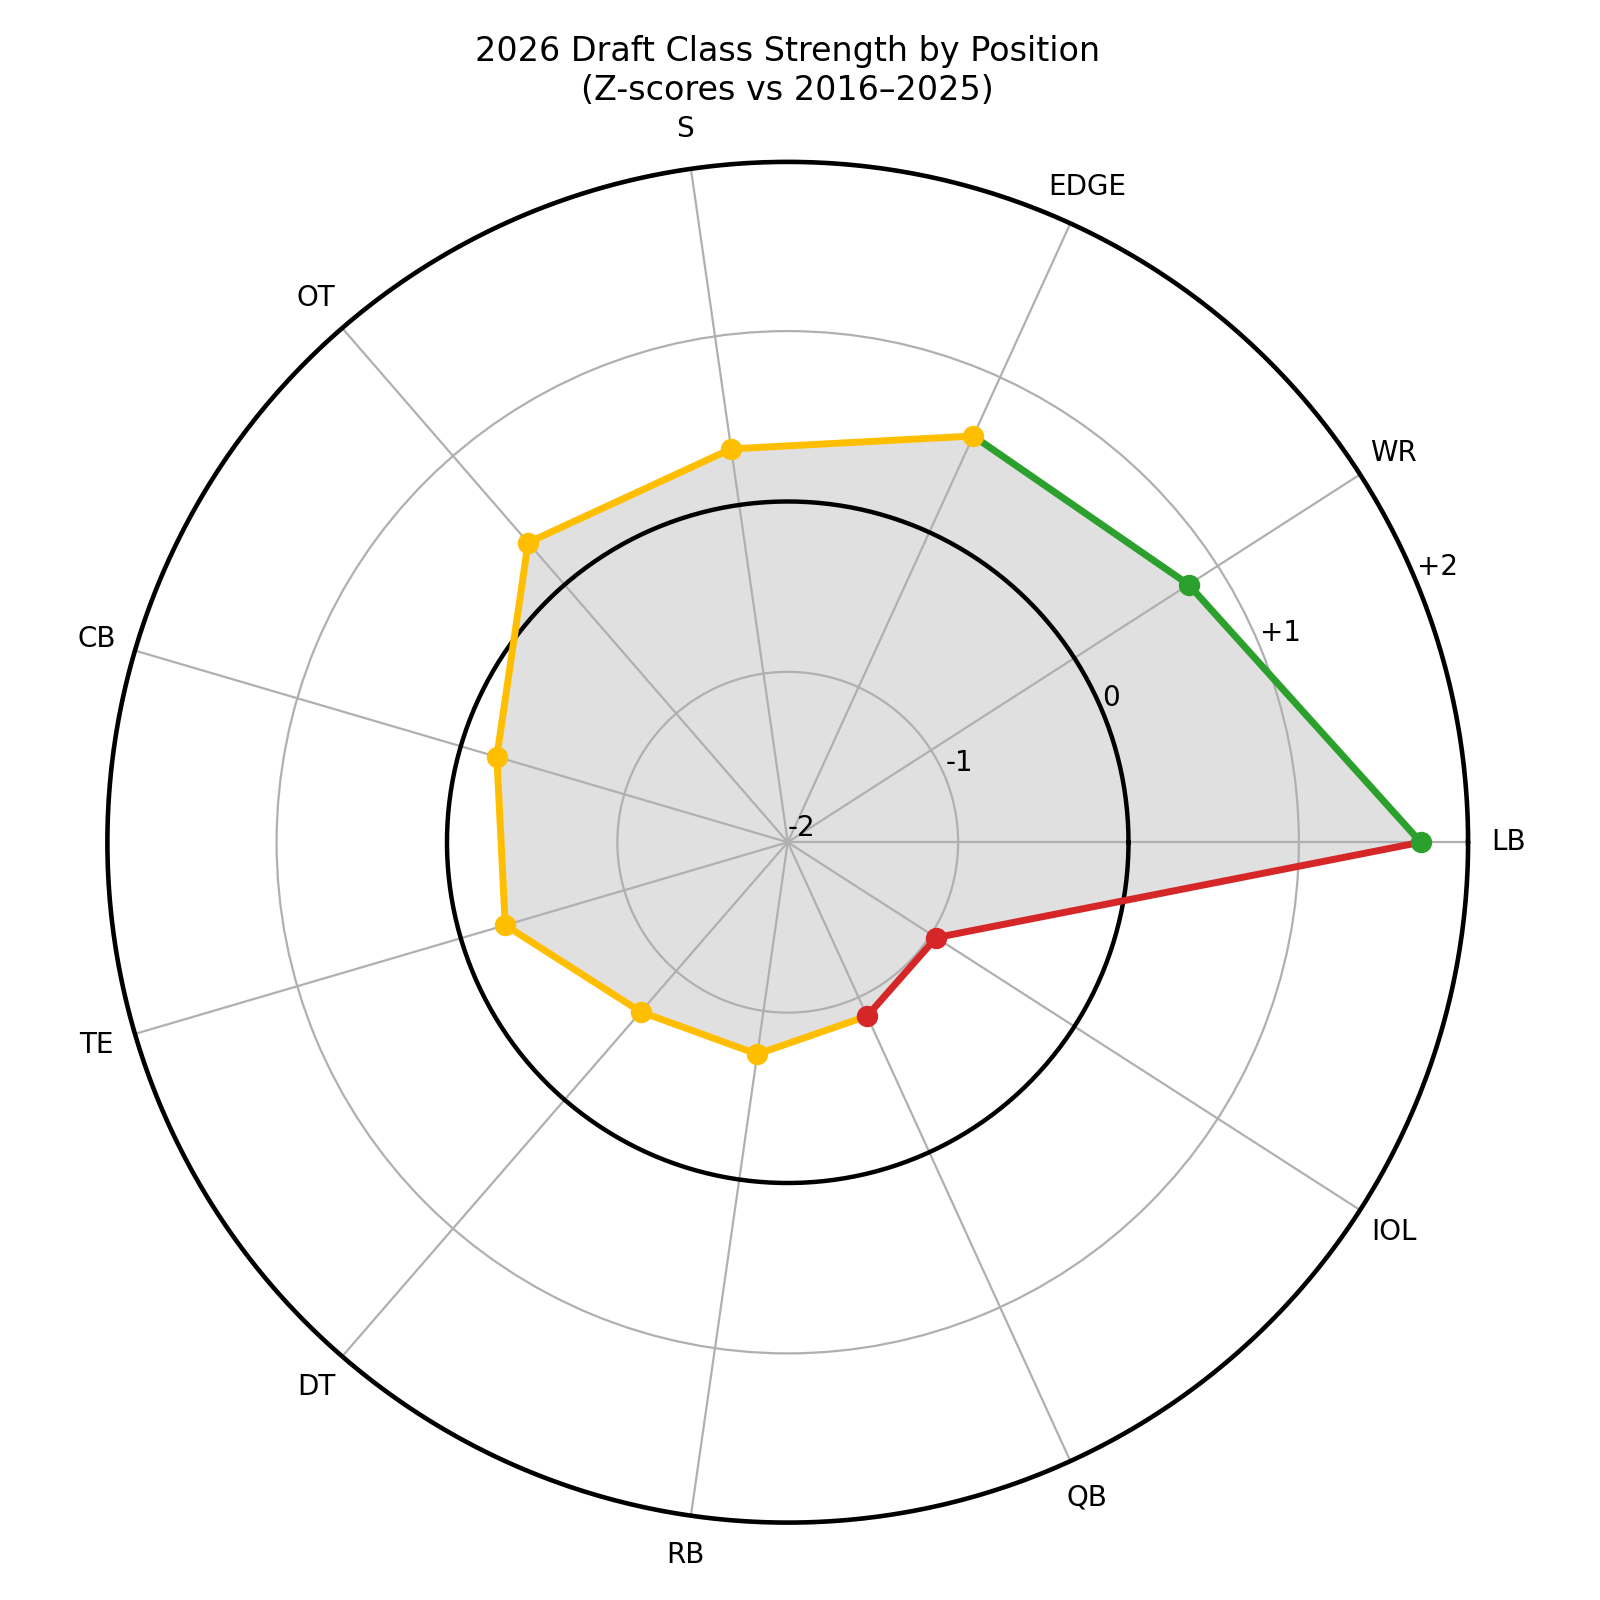
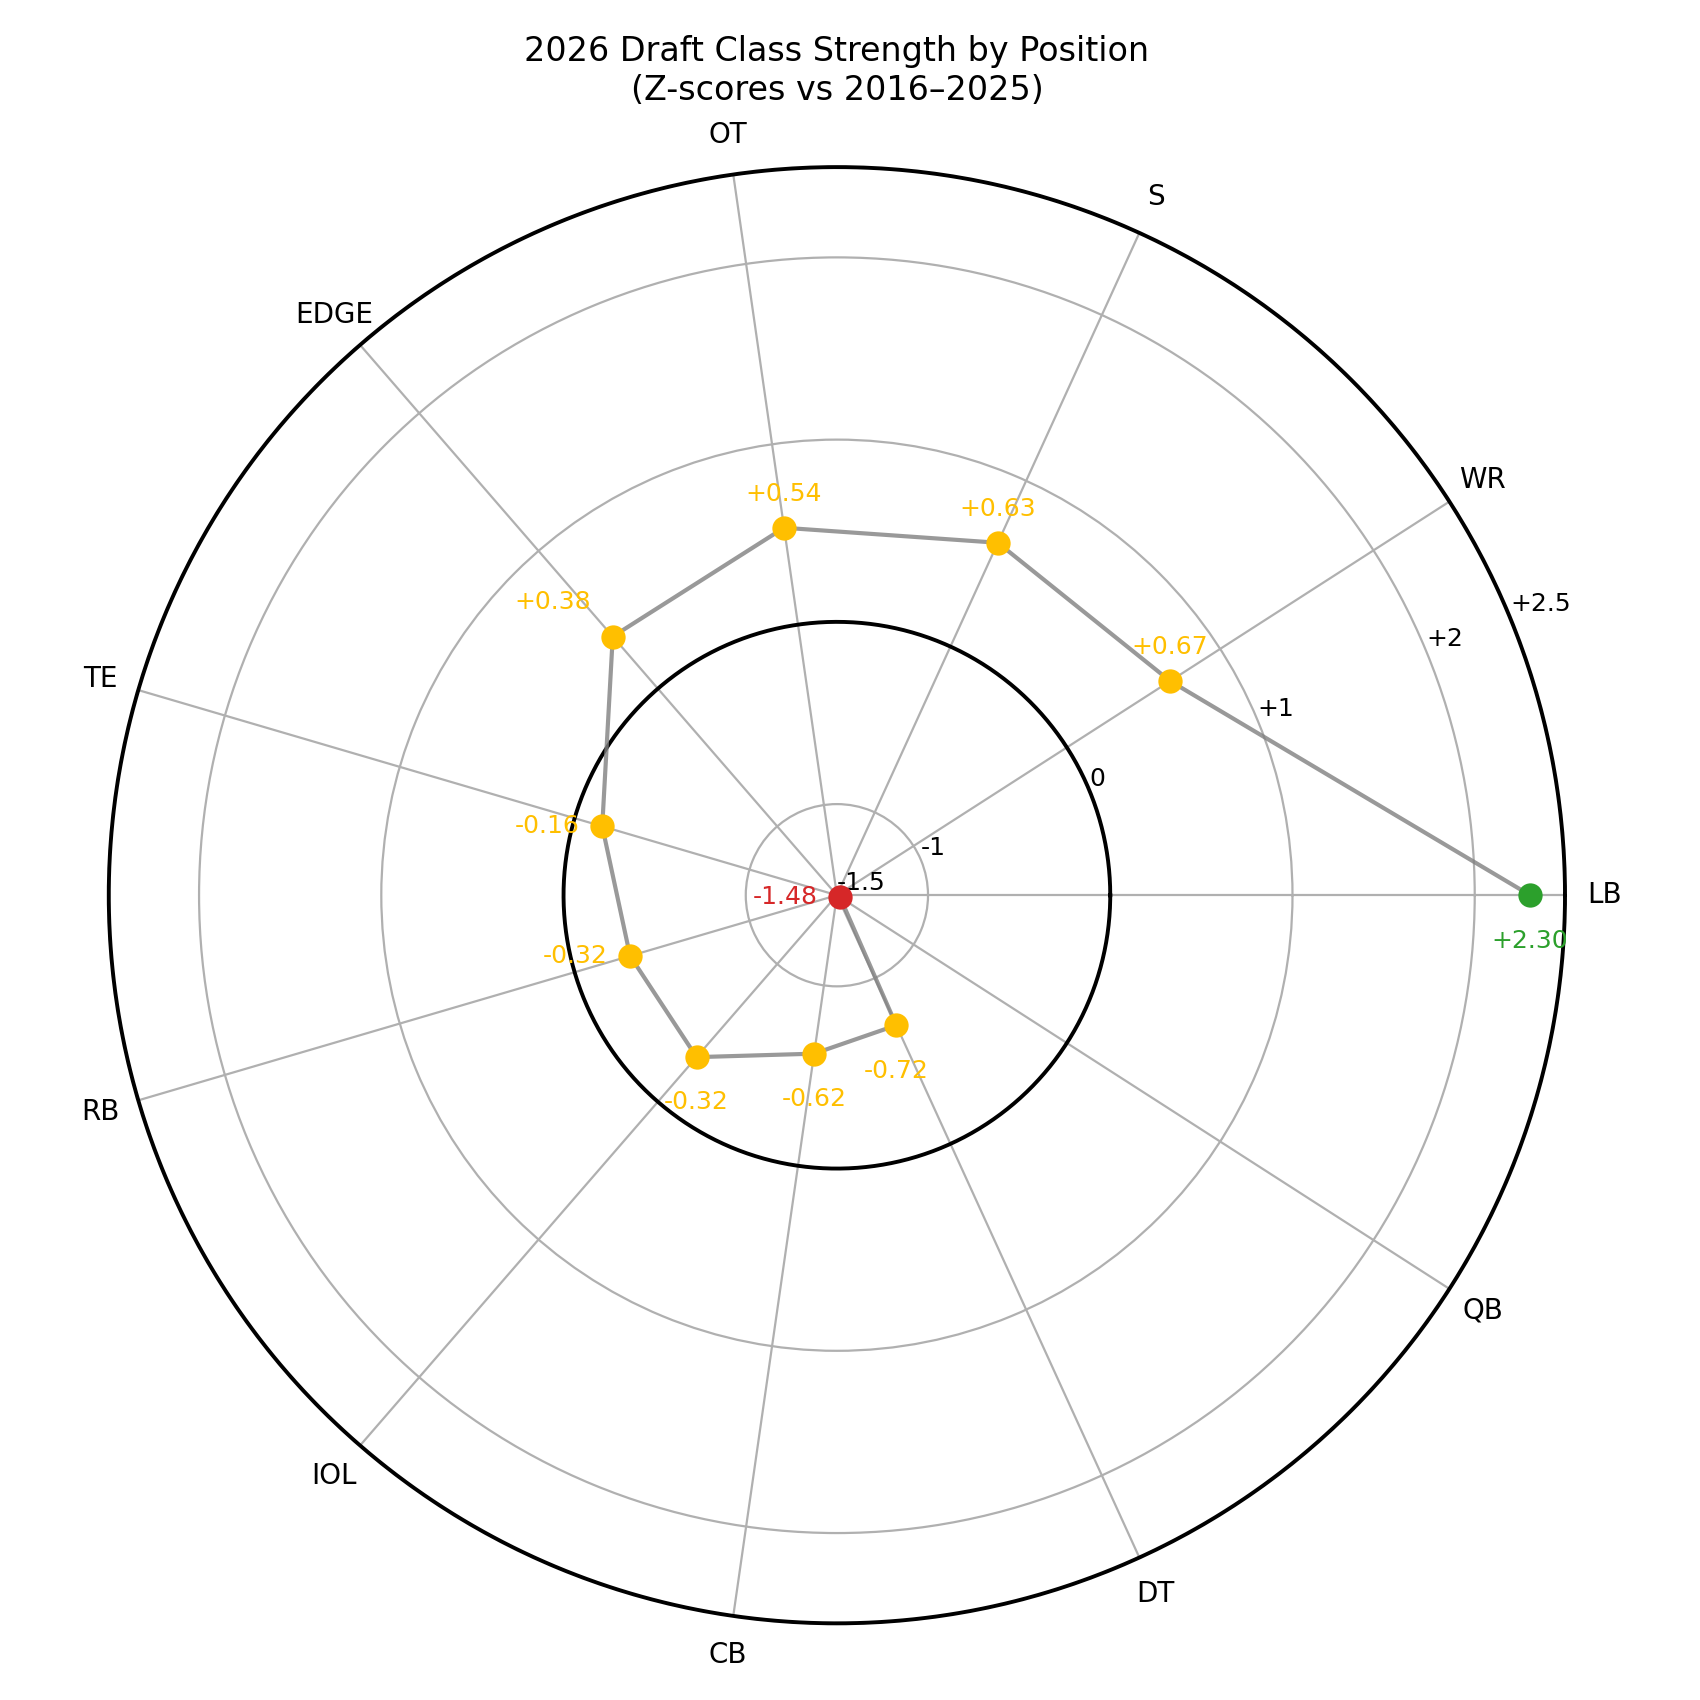
Refine radar chart styling and dynamic z-score thresholds

diff --git a/src/plot_2026_radar_zscores.py b/src/plot_2026_radar_zscores.py
@@ -6,76 +6,136 @@ import matplotlib.pyplot as plt
 ZSCORES_FILE = Path("data/processed/2026_vs_history_position_zscores.csv")
 OUTDIR = Path("reports")
 
-CLIP_MIN, CLIP_MAX = -2.0, 2.0
+CLIP_MIN, CLIP_MAX = -1.5, 2.5
 
-# Color thresholds
-GOOD_Z = 0.75
-BAD_Z = -0.75
+# Old fixed thresholds, kept only for comparison in console output
+OLD_GOOD_Z = 0.75
+OLD_BAD_Z = -0.75
 
-def z_to_color(z):
-    if z >= GOOD_Z:
+
+def bucket_from_cutoffs(z, low_cutoff, high_cutoff):
+    if z >= high_cutoff:
+        return "good"
+    elif z <= low_cutoff:
+        return "bad"
+    return "mid"
+
+
+def z_to_color(z, low_cutoff, high_cutoff):
+    bucket = bucket_from_cutoffs(z, low_cutoff, high_cutoff)
+    if bucket == "good":
         return "#2ca02c"   # green
-    elif z <= BAD_Z:
+    elif bucket == "bad":
         return "#d62728"   # red
-    else:
-        return "#ffbf00"   # yellow (amber, easier on eyes than pure yellow)
+    return "#ffbf00"       # amber
+
+
+def format_z(z):
+    return f"{z:+.2f}"
+
 
 def main():
     df = pd.read_csv(ZSCORES_FILE)
     df.columns = [c.strip().lower() for c in df.columns]
 
-    # Sort by strength (max at 0° / east, CCW descending)
-    df = df.sort_values("z_score", ascending=False)
+    # Sort by strength
+    df = df.sort_values("z_score", ascending=False).reset_index(drop=True)
 
     positions = df["position"].tolist()
-    z = np.clip(df["z_score"].to_numpy(dtype=float), CLIP_MIN, CLIP_MAX)
+    raw_z = df["z_score"].to_numpy(dtype=float)
+    z_plot = np.clip(raw_z, CLIP_MIN, CLIP_MAX)
+
+    # Dynamic thresholds based on current 2026 position z-score distribution
+    # Using population std since this is the full current set of positions, not a sample.
+    mean_z = float(np.mean(raw_z))
+    sd_z = float(np.std(raw_z, ddof=0))
+
+    high_cutoff = mean_z + sd_z
+    low_cutoff = mean_z - sd_z
+
+    # Compare old vs new coloring logic
+    old_buckets = [bucket_from_cutoffs(z, OLD_BAD_Z, OLD_GOOD_Z) for z in raw_z]
+    new_buckets = [bucket_from_cutoffs(z, low_cutoff, high_cutoff) for z in raw_z]
+    changed_positions = [p for p, old, new in zip(positions, old_buckets, new_buckets) if old != new]
+
+    print(f"Mean z-score across positions: {mean_z:.4f}")
+    print(f"Population std dev of z-scores: {sd_z:.4f}")
+    print(f"Dynamic cutoffs -> red <= {low_cutoff:.4f}, green >= {high_cutoff:.4f}")
+    print(f"Old fixed cutoffs -> red <= {OLD_BAD_Z:.2f}, green >= {OLD_GOOD_Z:.2f}")
+
+    if changed_positions:
+        print("Positions whose color bucket changed vs fixed +/-0.75:")
+        print(", ".join(changed_positions))
+    else:
+        print("Dynamic cutoffs do not change any color buckets vs fixed +/-0.75.")
 
     n = len(positions)
-
     angles = np.linspace(0, 2 * np.pi, n, endpoint=False)
-    angles_closed = np.append(angles, angles[0])
-    values_closed = np.append(z, z[0])
 
     OUTDIR.mkdir(parents=True, exist_ok=True)
 
-    plt.figure(figsize=(8, 8))
+    plt.figure(figsize=(8.5, 8.5))
     ax = plt.subplot(111, polar=True)
 
     ax.set_theta_zero_location("E")
     ax.set_theta_direction(1)
 
-    # ---- Draw outer boundary thicker ----
+    # Outer boundary
     theta = np.linspace(0, 2 * np.pi, 400)
-    ax.plot(theta, np.full_like(theta, CLIP_MAX), linewidth=2.5, color="black")
+    ax.plot(theta, np.full_like(theta, CLIP_MAX), linewidth=2.0, color="black")
 
-    # ---- Draw slightly bolded zero ring ----
-    ax.plot(theta, np.zeros_like(theta), linewidth=1.6, color="black")
+    # Zero ring
+    ax.plot(theta, np.zeros_like(theta), linewidth=1.4, color="black")
 
-    # ---- Plot colored segments ----
-    for i in range(n):
-        a = [angles[i], angles[(i + 1) % n]]
-        v = [z[i], z[(i + 1) % n]]
-        color = z_to_color(z[i])
-        ax.plot(a, v, linewidth=2.5, color=color)
+    # Light neutral open line (does not close QB back to LB)
+    ax.plot(angles, z_plot, linewidth=1.5, color="gray", alpha=0.8)
 
-    # ---- Fill polygon (neutral alpha so colors stay legible) ----
-    ax.fill(angles_closed, values_closed, alpha=0.12, color="black")
+    # Colored points
+    point_colors = [z_to_color(z, low_cutoff, high_cutoff) for z in raw_z]
+    for ang, val, color in zip(angles, z_plot, point_colors):
+        ax.scatter(ang, val, s=60, color=color, zorder=3)
 
-    # ---- Scatter points for clarity ----
-    for ang, val in zip(angles, z):
-        ax.scatter(ang, val, s=45, color=z_to_color(val), zorder=3)
-
-    # Labels
+    # Axis labels
     ax.set_xticks(angles)
-    ax.set_xticklabels(positions)
+    ax.set_xticklabels(positions, fontsize=10)
 
     ax.set_ylim(CLIP_MIN, CLIP_MAX)
-    ax.set_yticks([-2, -1, 0, 1, 2])
-    ax.set_yticklabels(["-2", "-1", "0", "+1", "+2"])
+    ax.set_yticks([-1.5, -1, 0, 1, 2, 2.5])
+    ax.set_yticklabels(["-1.5", "-1", "0", "+1", "+2", "+2.5"], fontsize=9)
+
+    # Custom z-score label placement by position
+    # values are: (x offset, y offset, horizontalalignment, verticalalignment)
+    label_offsets = {
+        "LB":   (0, -12, "center", "top"),
+        "WR":   (0, 8,   "center", "bottom"),
+        "S":    (0, 8,   "center", "bottom"),
+        "OT":   (0, 8,   "center", "bottom"),
+        "EDGE": (-8, 8,  "right",  "bottom"),
+        "TE":   (-8, 0,  "right",  "center"),
+        "RB":   (-8, 0,  "right",  "center"),
+        "IOL":  (0, -12, "center", "top"),
+        "CB":   (0, -12, "center", "top"),
+        "DT":   (0, -12, "center", "top"),
+        "QB":   (-8, 0,  "right",  "center"),
+    }
+
+    # Add numeric z-score labels near points
+    for pos, ang, raw_val, plot_val, color in zip(positions, angles, raw_z, z_plot, point_colors):
+        dx, dy, ha, va = label_offsets.get(pos, (0, 8, "center", "bottom"))
+        ax.annotate(
+            format_z(raw_val),
+            (ang, plot_val),
+            textcoords="offset points",
+            xytext=(dx, dy),
+            ha=ha,
+            va=va,
+            fontsize=9,
+            color=color
+        )
 
     ax.set_title(
         "2026 Draft Class Strength by Position\n(Z-scores vs 2016–2025)",
-        pad=22
+        pad=24
     )
 
     plt.tight_layout()
@@ -83,6 +143,7 @@ def main():
     plt.savefig(outpath, dpi=200)
     plt.close()
     print(f"Saved: {outpath}")
+
 
 if __name__ == "__main__":
     main()
